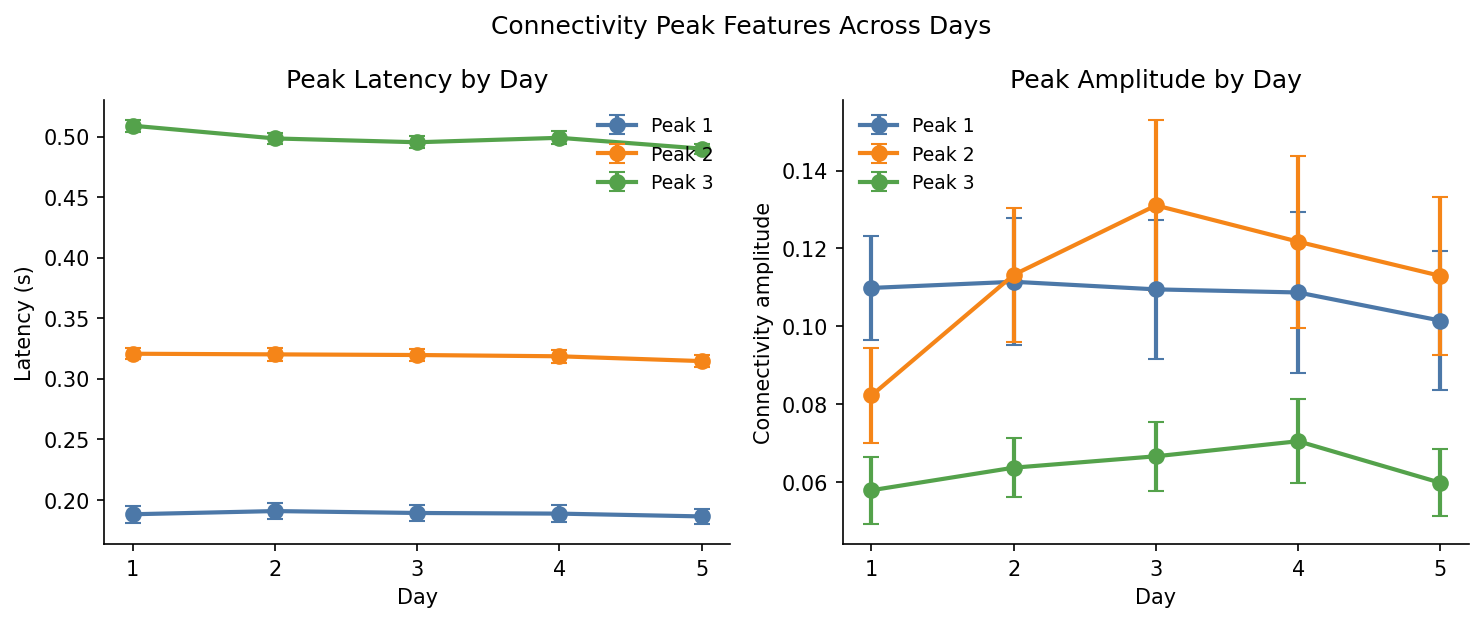
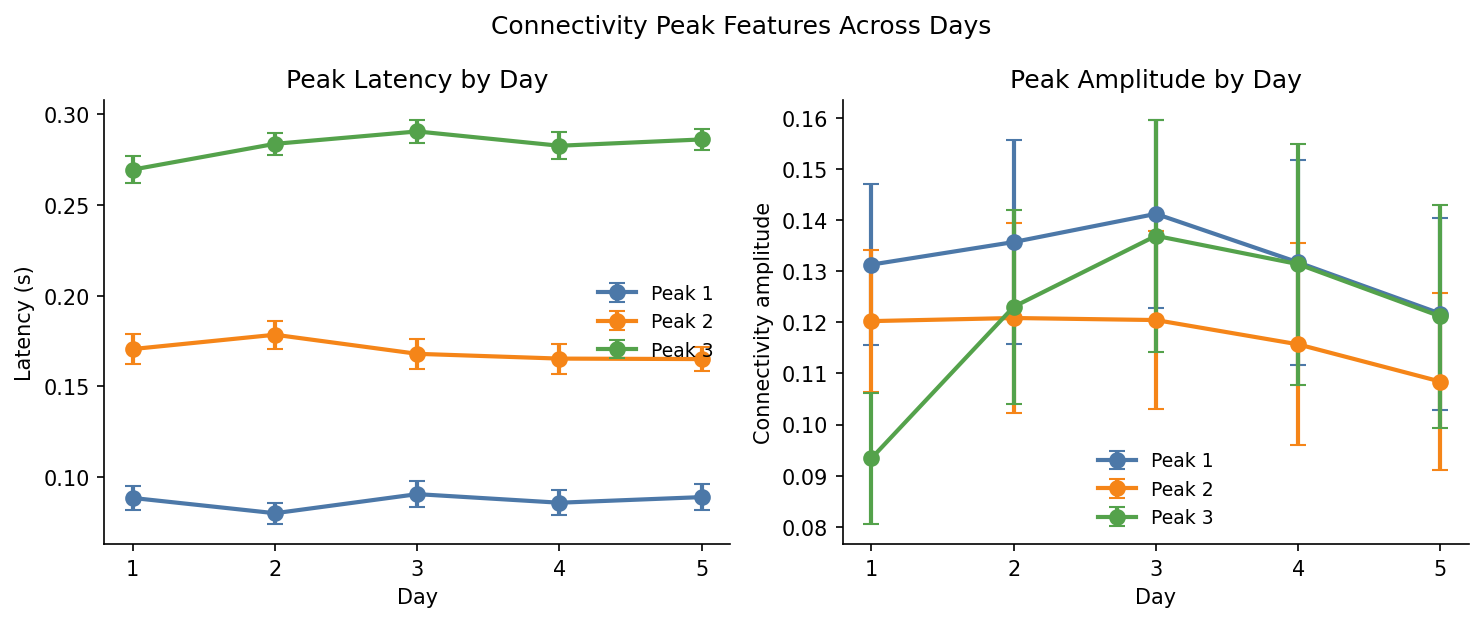
.

diff --git a/code/presentation_figure.py b/code/presentation_figure.py
@@ -19,6 +19,7 @@ from matplotlib.patches import Circle, Polygon
 import numpy as np
 import pandas as pd
 from scipy import stats
+from scipy.signal import find_peaks
 
 from erp_grand_average_figure import require_evoked_map
 
@@ -1119,8 +1120,31 @@ PEAK_LABELS = ["Peak 1", "Peak 2", "Peak 3"]
 PEAK_COLORS = ["#4c78a8", "#f58518", "#54a24b"]
 
 
+def _grand_avg_connectivity_peak_windows(d, n_peaks=3, half_win=0.05):
+    """Detect n_peaks from the grand-average timecourse and return search windows."""
+    tc = (
+        d.groupby("lock_time", as_index=False)["conn_val"]
+        .mean()
+        .sort_values("lock_time")
+    )
+    times = tc["lock_time"].to_numpy(float)
+    vals = tc["conn_val"].to_numpy(float)
+    peaks, props = find_peaks(vals, distance=5, prominence=0.005)
+    if len(peaks) < n_peaks:
+        raise ValueError(
+            f"Only {len(peaks)} peaks found in grand-average connectivity timecourse; "
+            f"expected at least {n_peaks}."
+        )
+    top_idx = peaks[np.argsort(props["prominences"])[::-1][:n_peaks]]
+    top_idx = sorted(top_idx)
+    windows = []
+    for p in top_idx:
+        windows.append((float(times[p]) - half_win, float(times[p]) + half_win))
+    return windows
+
+
 def subject_day_connectivity_peaks(output_dir):
-    """Per-subject per-day peak latency and amplitude for the three connectivity windows."""
+    """Per-subject per-day peak latency and amplitude for the three connectivity peaks."""
     active = require_csv(
         output_dir / "connect_sensorwide_model_timecourse_active_pairs.csv",
         "connectivity active-pair output",
@@ -1129,7 +1153,6 @@ def subject_day_connectivity_peaks(output_dir):
         output_dir / "sensorwide_carpet_subject_timeseries.csv",
         "connectivity subject carpet output",
     )
-    bounds = get_connect_three_window_bounds(output_dir)
 
     active = active[np.isclose(active["active_pct"].astype(float), 0.10)].copy()
     pair_labels = set(active["pair_label"].tolist())
@@ -1143,7 +1166,8 @@ def subject_day_connectivity_peaks(output_dir):
     if d.empty:
         raise ValueError("No stim broadband top-10% subject connectivity data found")
 
-    peak_windows = list(zip(PEAK_LABELS, [bounds["early"], bounds["middle"], bounds["late"]]))
+    windows = _grand_avg_connectivity_peak_windows(d)
+    peak_windows = list(zip(PEAK_LABELS, windows))
 
     rows = []
     for (subject, day), d_sd in d.groupby(["subject", "day"]):
